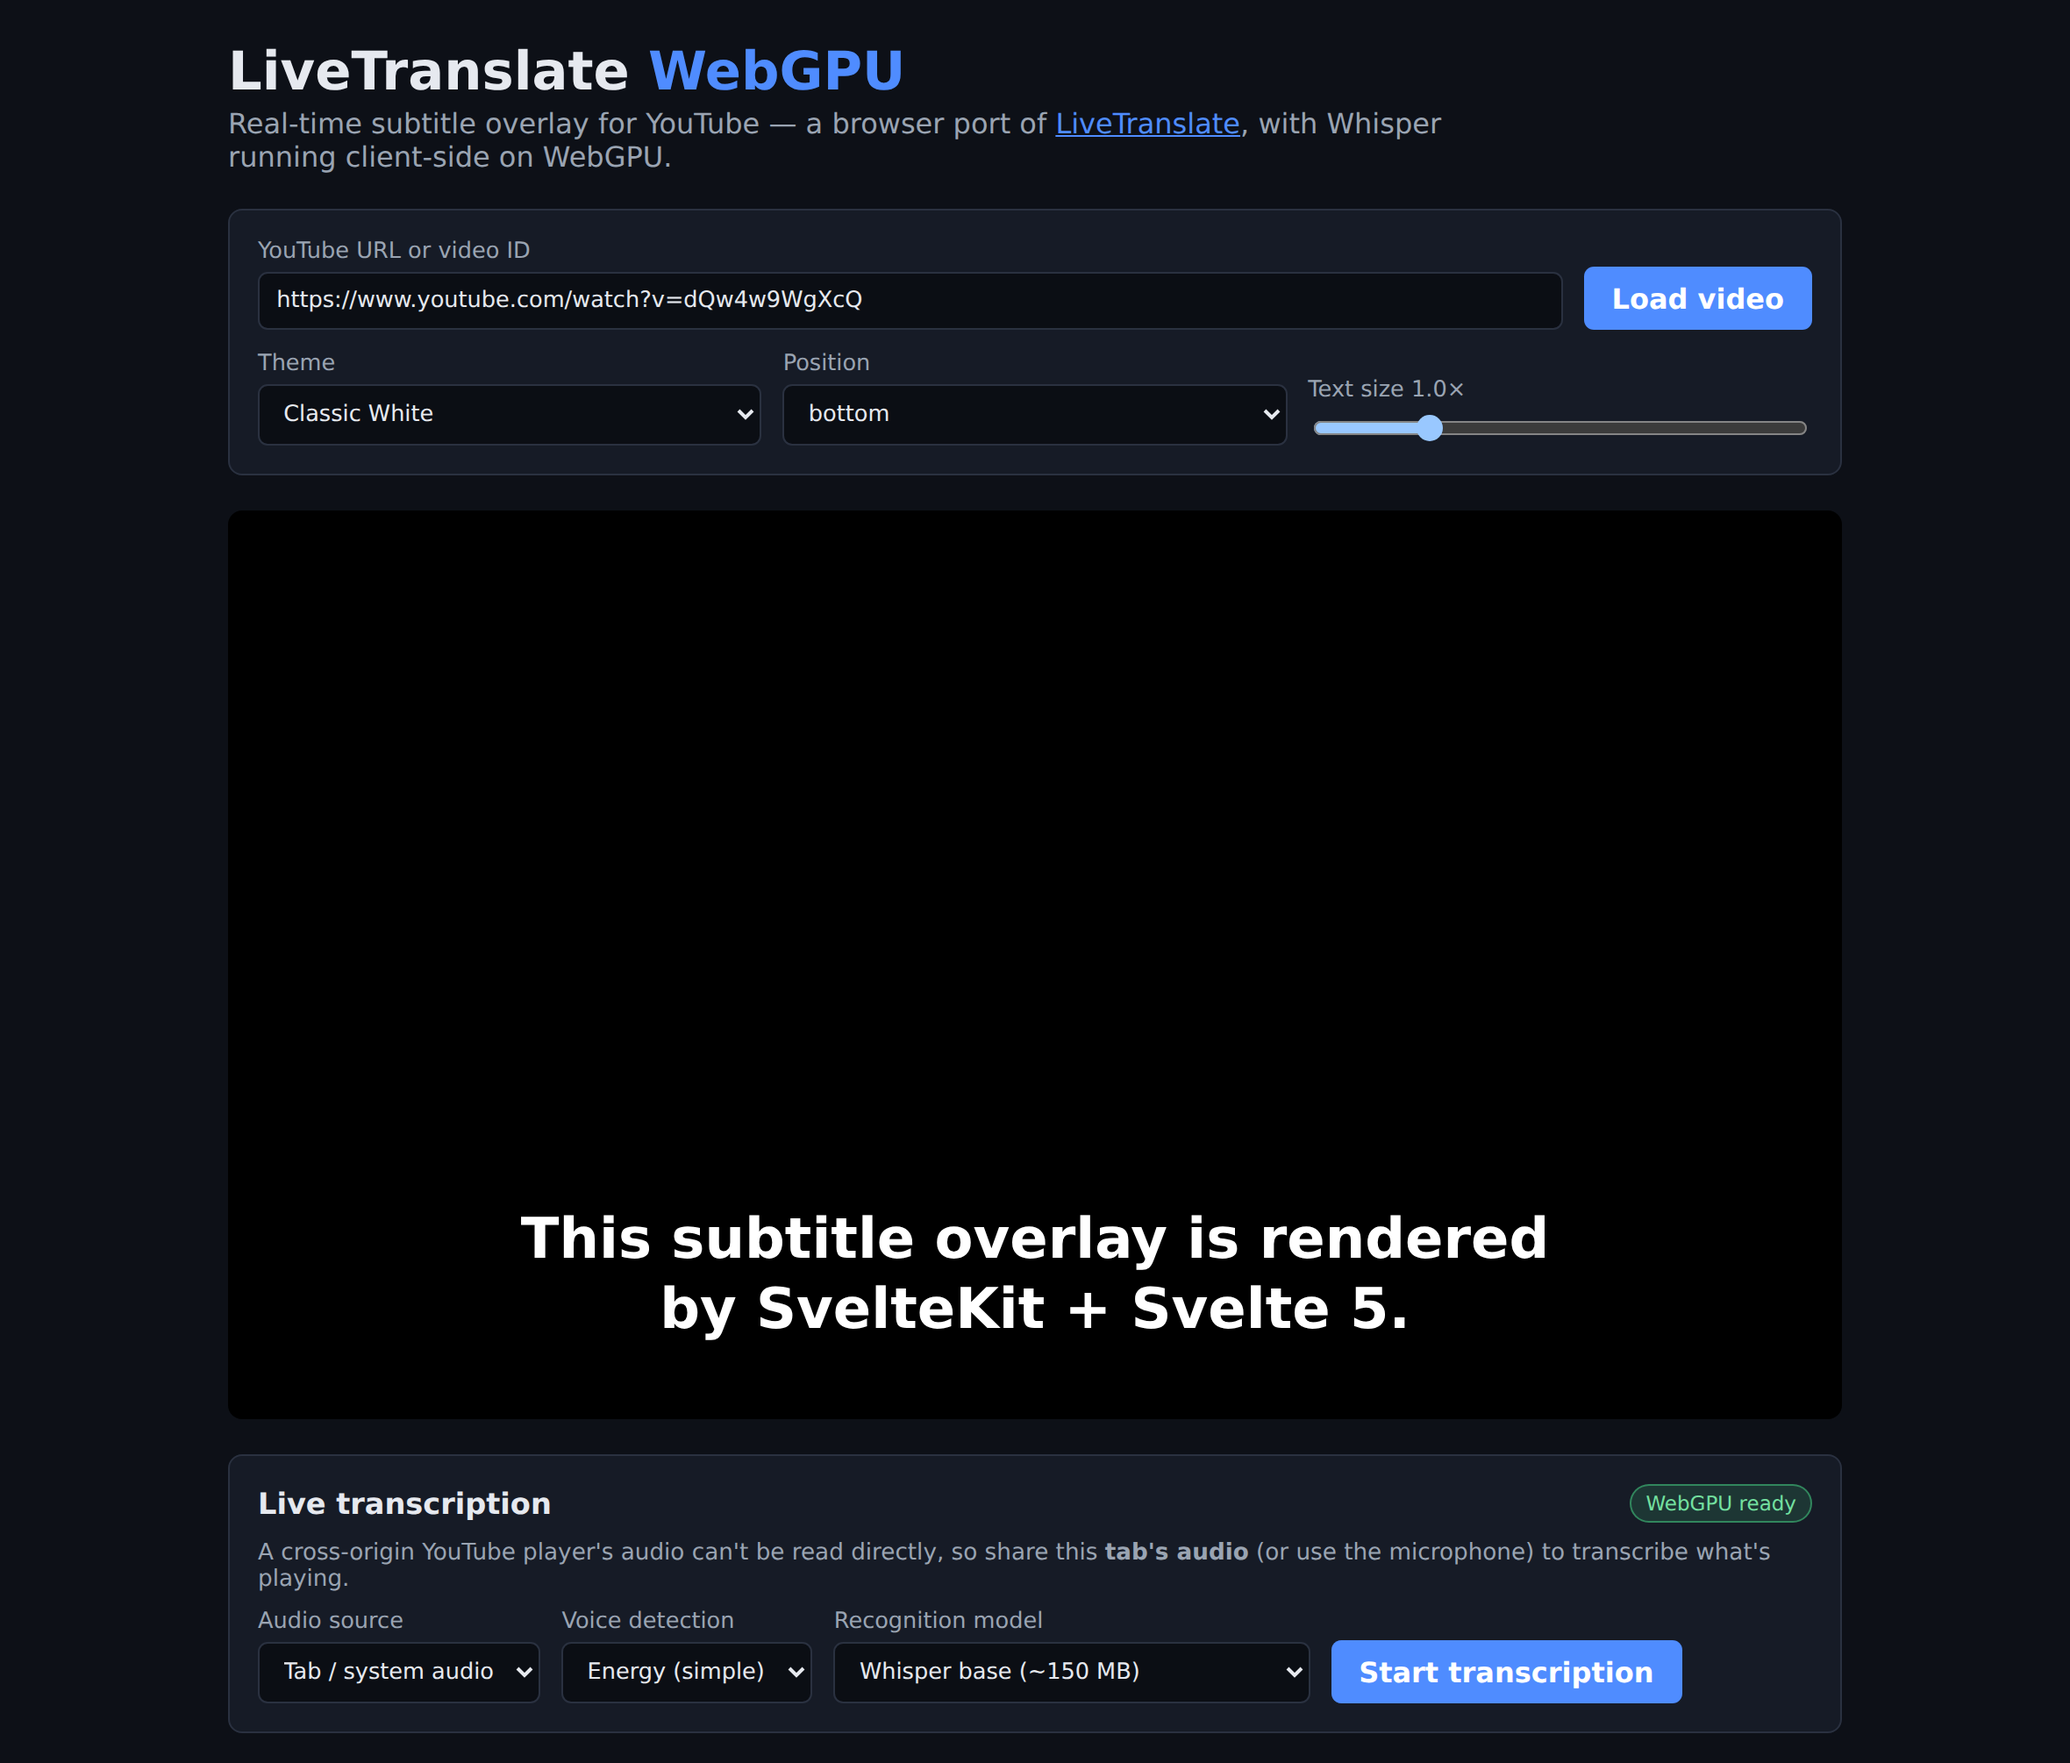
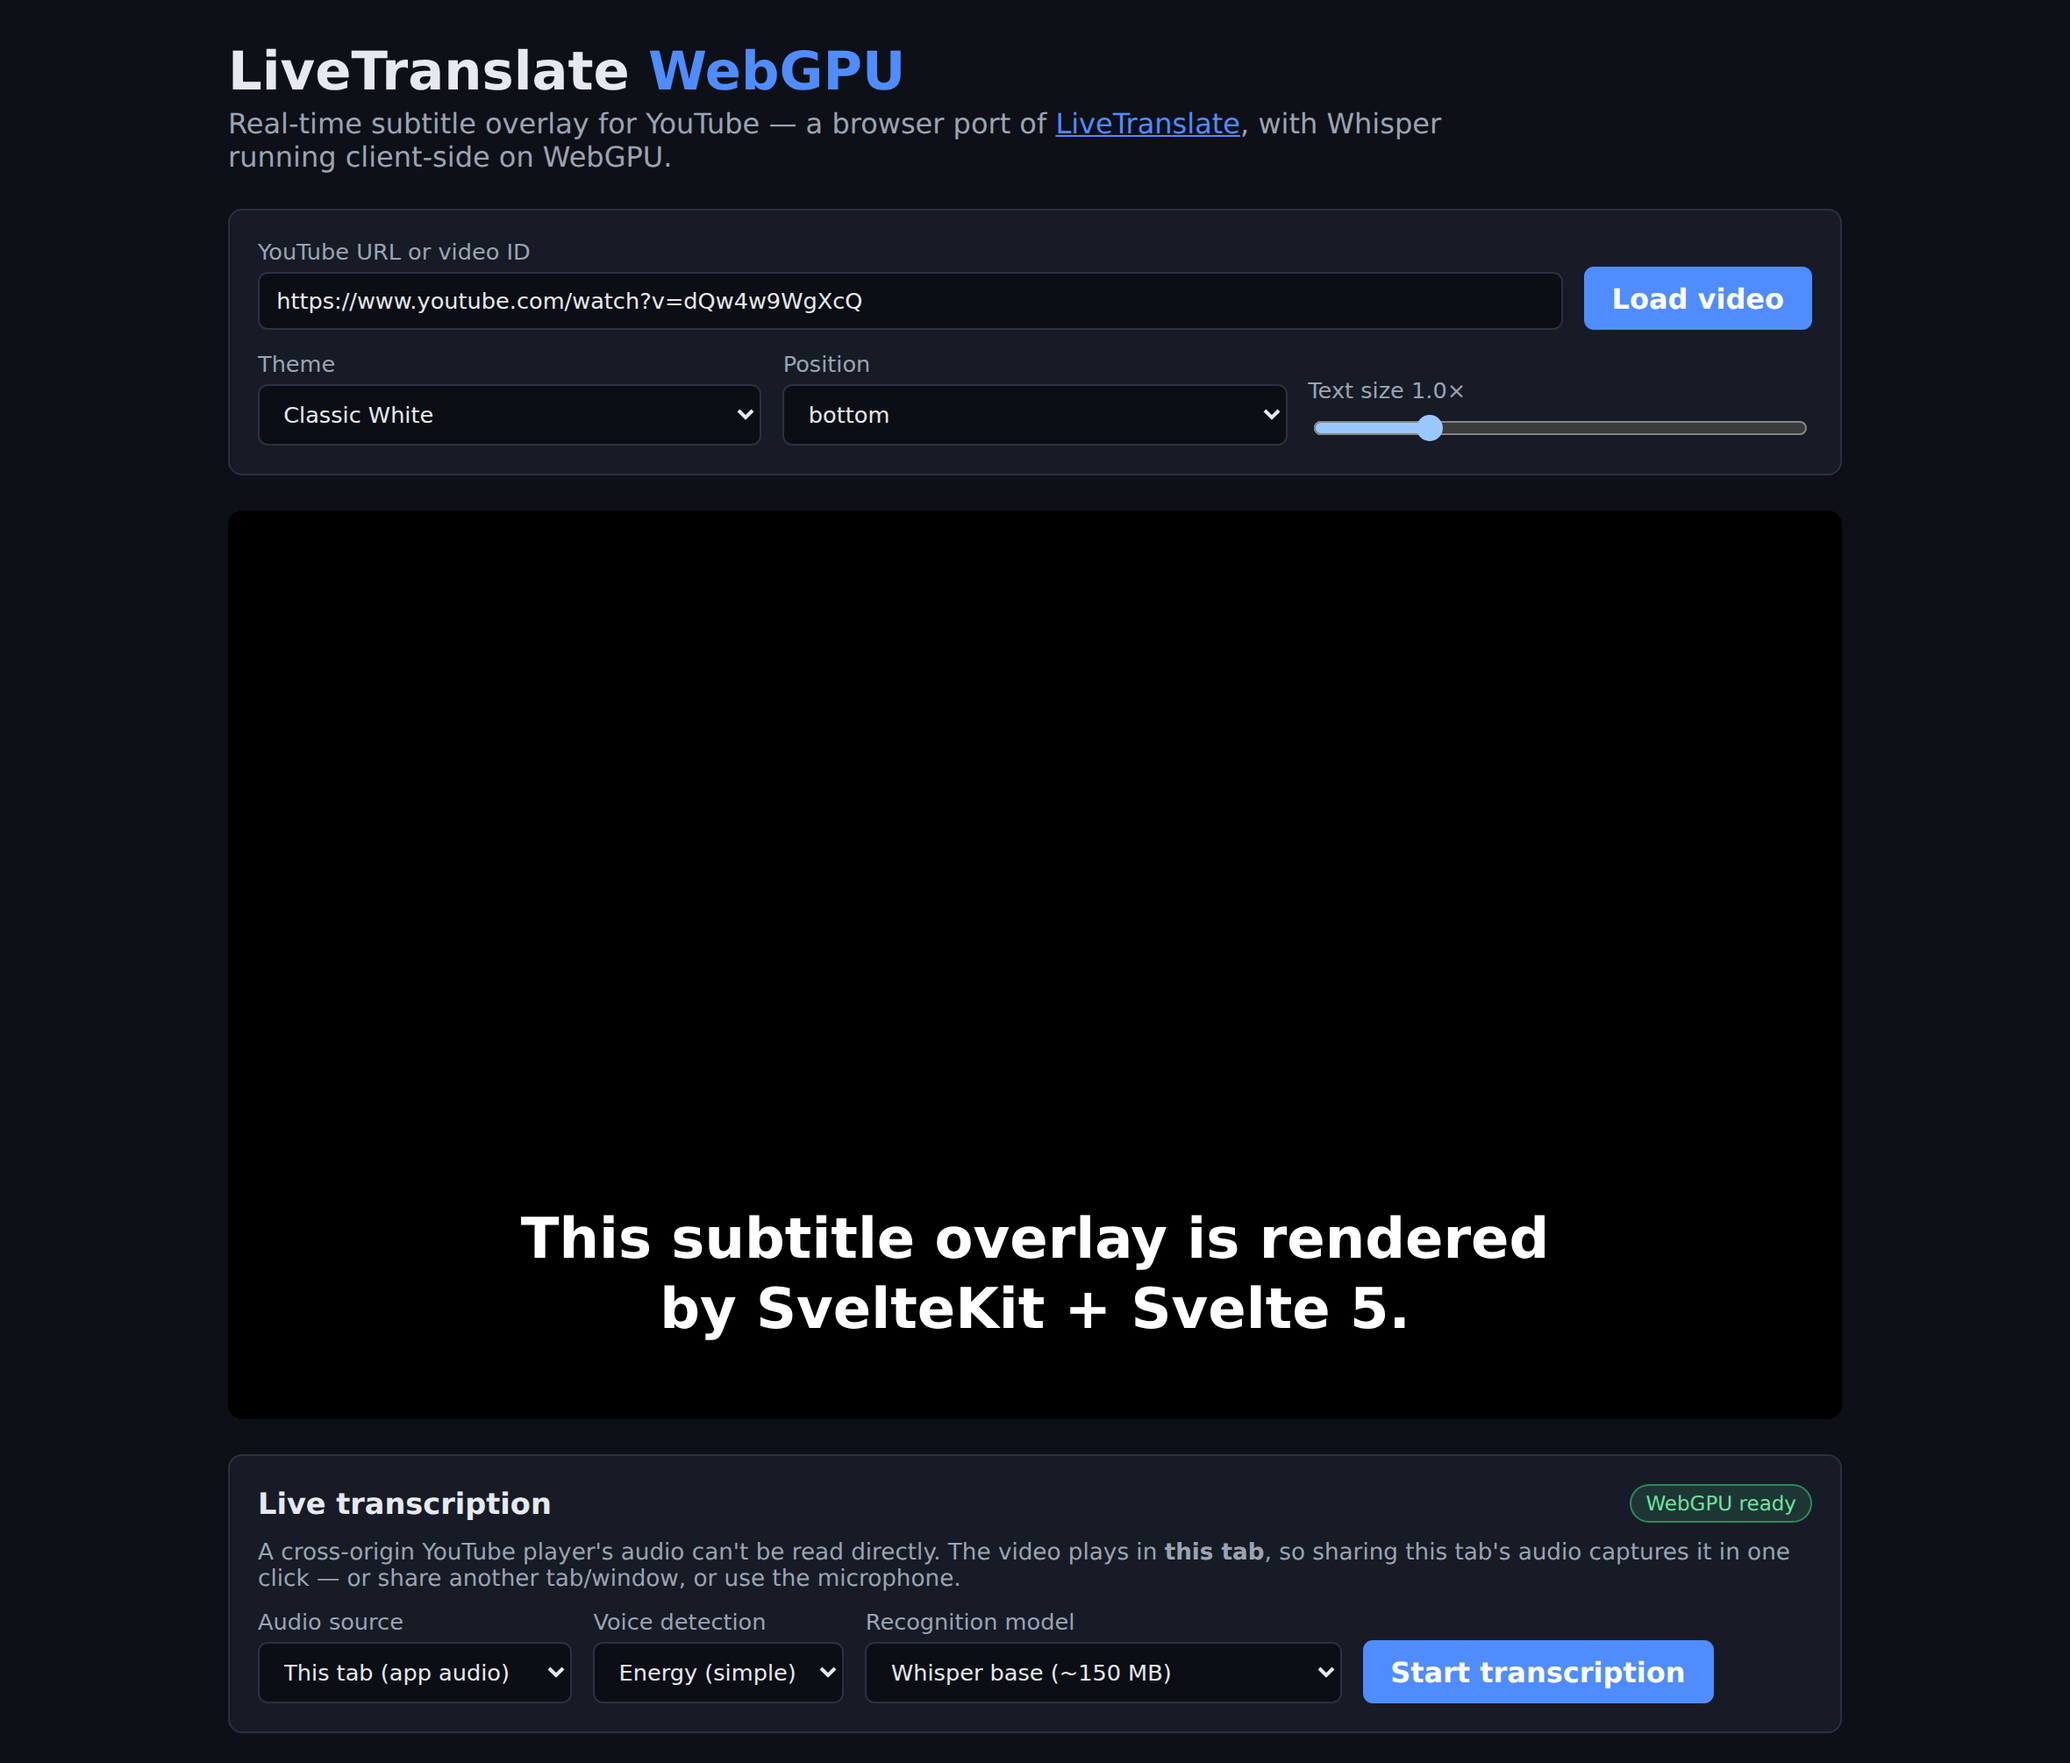
Add current-tab audio sharing as the one-click capture default (#15)
The YouTube embed plays inside the app's own tab, so the audio a user
wants to transcribe is already rendered by this very tab. Add a
`current-tab` CaptureKind that calls getDisplayMedia with
`preferCurrentTab: true`, which makes the browser's share picker
pre-select this tab — a one-click "share this tab's audio" flow instead
of hunting for the right entry in the full picker.

`preferCurrentTab` isn't in lib.dom yet, so requestAudioStream builds the
options via a narrow DisplayMediaOptions extension. The generic `tab`
kind is kept for sharing audio from a different tab/window/screen, and
both display-media kinds gate on the same getDisplayMedia support and
degrade to the microphone when it's missing. current-tab is now the
default and first option since it matches the embedded-in-app flow.

Assisted-by: Claude Code

diff --git a/src/lib/ui/TranscribePanel.test.ts b/src/lib/ui/TranscribePanel.test.ts
@@ -56,16 +56,25 @@ describe('TranscribePanel', () => {
     expect(onStart).toHaveBeenCalledOnce();
   });
 
+  it('offers current-tab, other-tab, and microphone audio sources', () => {
+    render(TranscribePanel, { props: { ...baseProps } });
+    const select = screen.getByLabelText(/audio source/i);
+    const options = Array.from(select.querySelectorAll('option')).map((o) => o.value);
+    expect(options).toEqual(['current-tab', 'tab', 'microphone']);
+  });
+
   it('leaves every option enabled and shows no compat notice when all is supported', () => {
     render(TranscribePanel, { props: { ...baseProps } });
-    const tab = screen.getByRole('option', { name: /tab \/ system audio/i }) as HTMLOptionElement;
+    const currentTab = screen.getByRole('option', { name: /this tab/i }) as HTMLOptionElement;
+    const tab = screen.getByRole('option', { name: /another tab/i }) as HTMLOptionElement;
     const nemotron = screen.getByRole('option', { name: /nemotron/i }) as HTMLOptionElement;
+    expect(currentTab.disabled).toBe(false);
     expect(tab.disabled).toBe(false);
     expect(nemotron.disabled).toBe(false);
     expect(screen.queryByText(WEBGPU_COMPAT_NOTICE)).toBeNull();
   });
 
-  it('disables tab audio capture and shows its notice when getDisplayMedia is missing', () => {
+  it('disables both tab-capture options and shows the notice when getDisplayMedia is missing', () => {
     const compat: BrowserCompat = {
       ...SUPPORTED_COMPAT,
       tabCapture: { supported: false, notice: 'no tab capture in this browser' }
@@ -73,7 +82,9 @@ describe('TranscribePanel', () => {
     render(TranscribePanel, {
       props: { ...baseProps, compat, captureKind: 'microphone' as const }
     });
-    const tab = screen.getByRole('option', { name: /tab \/ system audio/i }) as HTMLOptionElement;
+    const currentTab = screen.getByRole('option', { name: /this tab/i }) as HTMLOptionElement;
+    const tab = screen.getByRole('option', { name: /another tab/i }) as HTMLOptionElement;
+    expect(currentTab.disabled).toBe(true);
     expect(tab.disabled).toBe(true);
     expect(screen.getByText('no tab capture in this browser')).toBeInTheDocument();
   });

diff --git a/src/lib/audio/source.ts b/src/lib/audio/source.ts
@@ -1,4 +1,4 @@
-export type CaptureKind = 'tab' | 'microphone';
+export type CaptureKind = 'current-tab' | 'tab' | 'microphone';
 
 // Disable browser voice processing — it hurts ASR of media/music content.
 const RAW_AUDIO: MediaTrackConstraints = {
@@ -7,6 +7,10 @@ const RAW_AUDIO: MediaTrackConstraints = {
   autoGainControl: false
 };
 
+// `preferCurrentTab` is a Chrome extension to getDisplayMedia's options that
+// pre-selects the app's own tab in the share picker; it isn't in lib.dom yet.
+type DisplayMediaOptions = DisplayMediaStreamOptions & { preferCurrentTab?: boolean };
+
 /**
  * Acquire an audio MediaStream.
  *
@@ -14,15 +18,22 @@ const RAW_AUDIO: MediaTrackConstraints = {
  * transcribe what's playing the user shares the tab/system audio via
  * getDisplayMedia (the browser-legal analog of LiveTranslate's WASAPI
  * loopback). getDisplayMedia requires `video: true` for the share picker even
- * though we only consume the audio track. The microphone is the simpler
- * fallback that captures the speakers ambiently.
+ * though we only consume the audio track.
+ *
+ * The YouTube embed plays inside the app's own tab, so `current-tab` is the
+ * one-click path: `preferCurrentTab` makes the picker default to this very tab,
+ * whose audio already includes the embedded video. `tab` opens the full picker
+ * for audio playing in a different tab/window/screen, and the microphone is the
+ * simpler fallback that captures the speakers ambiently.
  */
 export function requestAudioStream(
   kind: CaptureKind,
   mediaDevices: MediaDevices = navigator.mediaDevices
 ): Promise<MediaStream> {
-  if (kind === 'tab') {
-    return mediaDevices.getDisplayMedia({ video: true, audio: RAW_AUDIO });
+  if (kind === 'microphone') {
+    return mediaDevices.getUserMedia({ audio: RAW_AUDIO });
   }
-  return mediaDevices.getUserMedia({ audio: RAW_AUDIO });
+  const options: DisplayMediaOptions = { video: true, audio: RAW_AUDIO };
+  if (kind === 'current-tab') options.preferCurrentTab = true;
+  return mediaDevices.getDisplayMedia(options);
 }

diff --git a/src/lib/ui/TranscribePanel.svelte b/src/lib/ui/TranscribePanel.svelte
@@ -54,15 +54,17 @@
   </div>
 
   <p class="note">
-    A cross-origin YouTube player's audio can't be read directly, so share this
-    <strong>tab's audio</strong> (or use the microphone) to transcribe what's playing.
+    A cross-origin YouTube player's audio can't be read directly. The video plays in
+    <strong>this tab</strong>, so sharing this tab's audio captures it in one click — or share
+    another tab/window, or use the microphone.
   </p>
 
   <div class="row">
     <label>
       <span>Audio source</span>
       <select bind:value={captureKind} disabled={busy}>
-        <option value="tab" disabled={!tabCapture.supported}>Tab / system audio</option>
+        <option value="current-tab" disabled={!tabCapture.supported}>This tab (app audio)</option>
+        <option value="tab" disabled={!tabCapture.supported}>Another tab / window</option>
         <option value="microphone">Microphone</option>
       </select>
     </label>

diff --git a/src/routes/+page.svelte b/src/routes/+page.svelte
@@ -30,7 +30,7 @@
   const SETTINGS_KEY = 'livetranslate-webgpu:settings';
   const persisted = loadPersisted(SETTINGS_KEY, {
     videoInput: 'https://www.youtube.com/watch?v=dQw4w9WgXcQ',
-    captureKind: 'tab' as CaptureKind,
+    captureKind: 'current-tab' as CaptureKind,
     vadEngine: 'energy' as VadEngineKind,
     asr: DEFAULT_ASR_SETTINGS,
     overlay: DEFAULT_OVERLAY_SETTINGS,
@@ -82,7 +82,7 @@
     // Persisted choices this browser can't run degrade to the working
     // alternative (the panel also disables the unsupported options).
     compat = detectBrowserCompat();
-    if (!compat.tabCapture.supported && captureKind === 'tab') captureKind = 'microphone';
+    if (!compat.tabCapture.supported && captureKind !== 'microphone') captureKind = 'microphone';
     webgpu = await detectWebGPU();
     if (asrSettings.engine === 'nemotron' && !nemotronSupport(compat, webgpu).supported) {
       asrSettings.engine = 'whisper';

diff --git a/src/lib/audio/source.test.ts b/src/lib/audio/source.test.ts
@@ -21,6 +21,19 @@ describe('requestAudioStream', () => {
     const constraints = md.getDisplayMedia.mock.calls[0][0];
     expect(constraints.audio).toBeTruthy();
     expect(constraints.video).toBeTruthy();
+    // The generic tab picker must not pre-select the app's own tab.
+    expect(constraints.preferCurrentTab).toBeFalsy();
+  });
+
+  it("pre-selects this app's own tab for current-tab capture", async () => {
+    const md = mockMediaDevices();
+    await requestAudioStream('current-tab', md);
+    expect(md.getDisplayMedia).toHaveBeenCalledOnce();
+    expect(md.getUserMedia).not.toHaveBeenCalled();
+    const constraints = md.getDisplayMedia.mock.calls[0][0];
+    expect(constraints.audio).toBeTruthy();
+    expect(constraints.video).toBeTruthy();
+    expect(constraints.preferCurrentTab).toBe(true);
   });
 
   it('uses getUserMedia for the microphone with processing disabled', async () => {

diff --git a/README.md b/README.md
@@ -103,8 +103,9 @@ bun run dev            # http://localhost:5173
 
 1. Paste a YouTube URL and **Load video**.
 2. Click **Preview subtitle overlay** to see the overlay with demo cues, or
-3. **Start transcription**, pick _Tab / system audio_ (share this tab **with audio**)
-   or _Microphone_, and live subtitles appear over the video.
+3. **Start transcription**, pick _This tab (app audio)_ — the video plays in this
+   tab, so the picker pre-selects it; just share **with audio** in one click — or
+   _Another tab / window_ or _Microphone_, and live subtitles appear over the video.
 
 Cues stay on screen for a reading-speed-based duration, a transcript panel below the
 player collects everything heard (with source text under translations), and your
